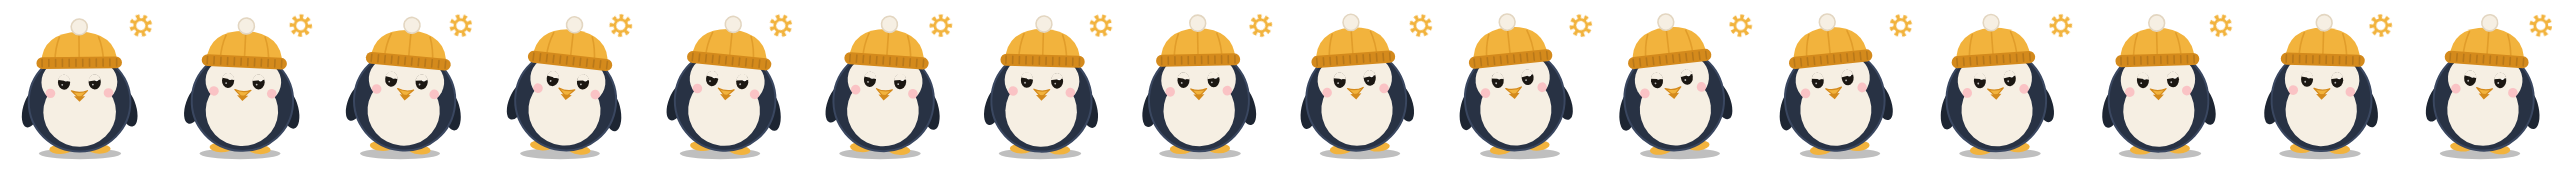
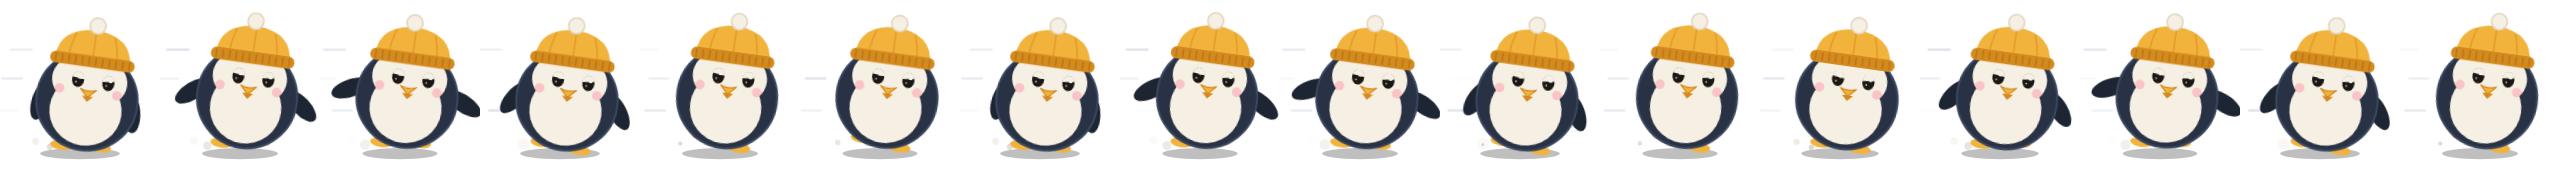
Kelvin acts out scenes: laptop, running, hammer, lightbulb, cloud 9, beach… (#38)
The big Kelvins (Desktop Kelvin and the greeting) now act out a scene
with props for each mood, switching every few seconds:

  working   typing on a laptop (code floats up) · running with speed
            lines and dust · hammering bricks, BANG!
  thinking  thought bubble · a lightbulb flickering on · pacing back
            and forth with question marks
  done      jump for joy · floating on cloud 9 · confetti party
  idle      breathing · lying on a beach towel in the sun, "ahh~" ·
            sunglasses, coffee and music notes

Props are drawn in SVG next to Kelvin and hidden unless their scene is
playing; every loop lasts 1.2 s so the Desktop Kelvin strips repeat
cleanly (re-recorded). The small Kelvins (header, group chats, thinking
line) keep their simple moves. Still mode freezes the props; Hidden
removes everything as before.

Claude-Session: https://claude.ai/code/session_013wJcUq1FY8kmipQYWNFhdJ

diff --git a/frontend2/js/kelvin.js b/frontend2/js/kelvin.js
@@ -73,7 +73,8 @@
       ribs += '<line x1="' + x + '" y1="-117" x2="' + x + '" y2="-108" stroke="' + hat[2] + '" stroke-width="2" stroke-linecap="round"/>';
     }
     return '' +
-      '<ellipse cx="-24" cy="-3" rx="14" ry="6" fill="' + C.amber + '"/><ellipse cx="24" cy="-3" rx="14" ry="6" fill="' + C.amber + '"/>' +
+      '<g data-foot="L"><ellipse cx="-24" cy="-3" rx="14" ry="6" fill="' + C.amber + '"/></g>' +
+      '<g data-foot="R"><ellipse cx="24" cy="-3" rx="14" ry="6" fill="' + C.amber + '"/></g>' +
       '<g data-perk data-px="-54" data-py="-74" data-amt="-30"><ellipse cx="-61" cy="-56" rx="11" ry="25" transform="rotate(22 -61 -56)" fill="' + C.wing + '"/></g>' +
       '<g data-perk data-px="54" data-py="-74" data-amt="30"><ellipse cx="61" cy="-56" rx="11" ry="25" transform="rotate(-22 61 -56)" fill="' + C.wing + '"/></g>' +
       '<ellipse cx="0" cy="-63" rx="63" ry="63" fill="' + C.navy + '" stroke="' + C.navyLine + '" stroke-width="2.5"/>' +
@@ -124,10 +125,102 @@
   }
 
   // ---------------------------------------------------------------------------
+  // Scenes: props for the big Kelvins (greeting, Desktop Kelvin). Each mood has
+  // three; the small Kelvins (header, group chats) keep simple moves instead.
+  // Every animation cycles in 1.2 s (or a divisor) so Desktop Kelvin's strips loop.
+  // ---------------------------------------------------------------------------
+
+  var SCENES = {
+    working:  ['laptop', 'run', 'hammer'],
+    thinking: ['bubble', 'bulb', 'pace'],
+    done:     ['jump', 'cloud', 'party'],
+    idle:     ['breathe', 'relax', 'shades'],
+  };
+  // Scenes that bring their own props hide the mood's usual overlay (gear, thought dots).
+  var OWN_OVERLAY = { laptop: 1, run: 1, hammer: 1, bulb: 1, pace: 1 };
+
+  function prop(name, inner) { return '<g data-prop="' + name + '" class="kv-prop" display="none">' + inner + '</g>'; }
+
+  /** Props behind Kelvin, on the ground. */
+  function propsBack() {
+    return prop('run',
+        '<g stroke="#cfd6e2" stroke-width="3" stroke-linecap="round" opacity=".75">' +
+          '<line class="kv-speed" x1="-70" y1="-128" x2="-96" y2="-128"/>' +
+          '<line class="kv-speed kv-s2" x1="-74" y1="-92" x2="-98" y2="-92"/>' +
+          '<line class="kv-speed kv-s3" x1="-70" y1="-52" x2="-94" y2="-52"/></g>' +
+        '<circle class="kv-dust" cx="-34" cy="-5" r="6" fill="#cfc6b8"/>' +
+        '<circle class="kv-dust kv-s2" cx="-46" cy="-9" r="4" fill="#cfc6b8"/>') +
+      prop('relax',
+        '<rect x="-96" y="-9" width="192" height="13" rx="4" fill="#5b9cf5"/>' +
+        '<rect x="-96" y="-5" width="192" height="4" fill="' + C.cream + '" opacity=".85"/>' +
+        '<g transform="translate(-78 -164)"><g class="kv-sun">' +
+          [0, 45, 90, 135].map(function (a) {
+            return '<rect x="-2" y="-19" width="4" height="38" rx="2" fill="#ffd34d" transform="rotate(' + a + ')"/>';
+          }).join('') + '</g><circle r="10" fill="#ffd34d"/></g>');
+  }
+
+  /** Props in front of Kelvin. */
+  function propsFront() {
+    var confetti = '', cols = [C.amber, '#6aa6f8', '#4fd1a1', C.blush, '#b993f5'];
+    for (var i = 0; i < 10; i++) {
+      confetti += '<rect class="kv-fall" style="animation-delay:-' + (i * 0.12).toFixed(2) + 's" x="' + (-90 + i * 19) +
+        '" y="-190" width="6" height="10" rx="1.5" fill="' + cols[i % cols.length] + '"/>';
+    }
+    var code = function (x, txt, cls) {
+      return '<text class="kv-code ' + cls + '" x="' + x + '" y="-62" font-size="12" font-weight="700" fill="#8fd0ff" text-anchor="middle" font-family="monospace">' + txt + '</text>';
+    };
+    return prop('laptop',
+        code(-24, '&lt;/&gt;', '') + code(4, '{ }', 'kv-c2') + code(28, '01', 'kv-c3') +
+        '<rect x="-48" y="-13" width="96" height="10" rx="3" fill="#9aa3b2"/>' +
+        '<path d="M-41 -13 L-35 -58 L35 -58 L41 -13 Z" fill="#cdd4df" stroke="#8e97a6" stroke-width="2" stroke-linejoin="round"/>' +
+        '<path d="M-35 -58 L35 -58" stroke="#8fd0ff" stroke-width="2.5"/>' +
+        '<ellipse cx="-3" cy="-36" rx="9" ry="6" fill="' + C.amber + '"/><path d="M5 -36 l8 -6 v12 Z" fill="' + C.amber + '"/>' +
+        '<circle cx="-7" cy="-37" r="1.6" fill="' + C.ink + '"/>') +
+      prop('hammer',
+        '<rect x="68" y="-34" width="26" height="13" rx="2" fill="#c0603a"/><rect x="68" y="-20" width="26" height="13" rx="2" fill="#a64f2f"/>' +
+        '<g data-bang><path d="' + star(80, -46, 8) + '" fill="#ffd34d"/><path d="' + star(94, -52, 5) + '" fill="#ffd34d"/>' +
+          '<text x="62" y="-122" font-size="15" font-weight="900" fill="#ffd34d" text-anchor="middle">BANG!</text></g>') +
+      prop('pace',
+        '<text class="kv-q" x="-80" y="-148" font-size="24" font-weight="800" fill="' + C.cream + '">?</text>' +
+        '<text class="kv-q kv-c2" x="74" y="-124" font-size="18" font-weight="800" fill="' + C.cream + '">?</text>') +
+      prop('party', confetti) +
+      prop('shades',
+        '<text class="kv-note" x="-84" y="-118" font-size="20" fill="' + C.cream + '">\u266A</text>' +
+        '<text class="kv-note kv-c2" x="70" y="-140" font-size="18" fill="' + C.cream + '">\u266B</text>') +
+      prop('relax',
+        '<text class="kv-note" x="30" y="-150" font-size="15" font-weight="700" fill="' + C.cream + '">ahh~</text>');
+  }
+
+  /** Props that move with Kelvin: behind the body (cloud) and in front of it. */
+  function propsRigBack() {
+    return prop('cloud',
+      '<g fill="#eef3fb"><circle cx="-34" cy="4" r="14"/><circle cx="-12" cy="-2" r="18"/><circle cx="14" cy="-1" r="17"/>' +
+      '<circle cx="36" cy="5" r="13"/><rect x="-48" y="2" width="96" height="16" rx="8"/></g>' +
+      '<text x="0" y="15" text-anchor="middle" font-size="14" font-weight="900" fill="#5b9cf5">9</text>');
+  }
+  function propsRigFront() {
+    return prop('hammer',
+        '<g data-hammer><rect x="45" y="-95" width="6" height="37" rx="3" fill="#8b5a2b"/>' +
+        '<rect x="36" y="-106" width="24" height="13" rx="3" fill="#9aa3b2" stroke="#6b7280" stroke-width="1.5"/></g>') +
+      prop('bulb',
+        '<circle class="kv-bulb" cx="74" cy="-160" r="21" fill="#ffd34d"/>' +
+        '<circle cx="74" cy="-160" r="11" fill="#fff3b0" stroke="#e0b030" stroke-width="2"/>' +
+        '<rect x="69" y="-150" width="10" height="7" rx="2" fill="#9aa3b2"/>' +
+        '<text class="kv-q" x="-80" y="-140" font-size="22" font-weight="800" fill="' + C.cream + '">?</text>') +
+      prop('shades',
+        '<rect x="-34" y="-98" width="28" height="18" rx="7" fill="#111"/><rect x="6" y="-98" width="28" height="18" rx="7" fill="#111"/>' +
+        '<path d="M-6 -91 h12" stroke="#111" stroke-width="3"/>' +
+        '<path d="M-29 -94 l7 0 M11 -94 l7 0" stroke="#fff" stroke-width="2" stroke-linecap="round" opacity=".7"/>' +
+        '<rect x="60" y="-54" width="17" height="21" rx="3" fill="' + C.cream + '"/>' +
+        '<path d="M77 -48 q8 0 8 6 q0 6 -8 6" stroke="' + C.cream + '" stroke-width="3" fill="none"/>' +
+        '<path class="kv-note" d="M64 -60 q-3 -6 0 -10 M71 -60 q3 -6 0 -10" stroke="#cfd6e2" stroke-width="2" fill="none"/>');
+  }
+
+  // ---------------------------------------------------------------------------
   // Rig + shared animation loop
   // ---------------------------------------------------------------------------
 
-  var KEYS = ['hop', 'stretch', 'tilt', 'open', 'happy', 'slant', 'mOpen', 'perk', 'gx', 'gy', 'eyeScale'];
+  var KEYS = ['hop', 'stretch', 'tilt', 'open', 'happy', 'slant', 'mOpen', 'perk', 'gx', 'gy', 'eyeScale', 'dx', 'dy'];
   var instances = [];
   var uid = 0;
   var pointer = [0, 0, false];
@@ -144,8 +237,9 @@
     var withOv = opts.overlays !== false;
     host.innerHTML =
       '<svg viewBox="' + (opts.viewBox || (withOv ? '-100 -190 200 212' : '-76 -170 152 174')) + '" class="kelvin-svg" role="img" aria-label="' + (opts.label || 'Kelvin, the RAPR AI penguin') + '" overflow="visible">' +
-      (withOv ? '<ellipse data-shadow cx="0" cy="2" rx="52" ry="7" fill="#000" opacity=".25"/>' : '') +
-      '<g data-rig>' + body(id, hatFor(opts.ai)) + '</g>' + (withOv ? overlays() : '') + '</svg>';
+      (withOv ? '<ellipse data-shadow cx="0" cy="2" rx="52" ry="7" fill="#000" opacity=".25"/>' + propsBack() : '') +
+      '<g data-rig>' + (withOv ? propsRigBack() : '') + body(id, hatFor(opts.ai)) + (withOv ? propsRigFront() : '') + '</g>' +
+      (withOv ? propsFront() + overlays() : '') + '</svg>';
     var svg = host.firstChild;
     var q = function (s) { return Array.prototype.slice.call(svg.querySelectorAll(s)); };
     var inst = {
@@ -165,6 +259,8 @@
         return { g: g, px: +g.getAttribute('data-px'), py: +g.getAttribute('data-py'), amt: +g.getAttribute('data-amt') };
       }),
       ovs: q('[data-ov]'),
+      props: q('[data-prop]'), feet: q('[data-foot]'), hammer: svg.querySelector('[data-hammer]'), bang: svg.querySelector('[data-bang]'),
+      big: withOv, scene: null,   // only the big Kelvins act out scenes with props
       track: opts.track !== false,
       sp: {},
     };
@@ -198,8 +294,48 @@
     }
     var mv = inst.variant;
     var poked = now - inst.poke < 700;
-    var T = { hop: 0, stretch: 0, tilt: P.tilt, open: P.open, happy: P.happy, slant: P.slant, mOpen: P.mOpen, perk: P.perk, eyeScale: P.eyeScale, gx: 0, gy: 0 };
-    if (!calm) {
+    var T = { hop: 0, stretch: 0, tilt: P.tilt, open: P.open, happy: P.happy, slant: P.slant, mOpen: P.mOpen, perk: P.perk, eyeScale: P.eyeScale, gx: 0, gy: 0, dx: 0, dy: 0 };
+    var scene = inst.big && SCENES[st] ? SCENES[st][mv % SCENES[st].length] : null;
+    var sceneGaze = null, hammerAt = 10, bangOn = false, feetL = 0, feetR = 0;
+    if (scene === 'laptop') {                 // typing away on a laptop
+      sceneGaze = [0, 0.85]; T.slant = 0.25; T.open = 0.85;
+      if (!calm) { T.perk = 0.25 + Math.sin(t * W * 4) * 0.45; T.hop = -Math.abs(Math.sin(t * W * 2)) * 1; }
+    } else if (scene === 'run') {             // running flat out
+      T.tilt = 8; T.slant = 0.3; T.mOpen = 0.25; sceneGaze = [0.9, 0];
+      if (!calm) {
+        var r = Math.sin(t * W * 2);
+        T.hop = -Math.abs(r) * 7; T.stretch = Math.sin(t * W * 4) * 0.03; T.perk = r * 1.2;
+        feetL = -Math.max(0, r) * 9; feetR = -Math.max(0, -r) * 9;
+      }
+    } else if (scene === 'hammer') {          // building it, one brick at a time
+      T.slant = 0.3; sceneGaze = [0.7, 0.4];
+      if (!calm) {
+        var hp = (t / 0.6) % 1;               // strike, lift slowly, strike again
+        hammerAt = hp < 0.6 ? 120 - (hp / 0.6) * 110 : 10 + Math.pow((hp - 0.6) / 0.4, 2) * 110;
+        bangOn = hp < 0.18;
+        T.hop = hp < 0.1 ? -3 : 0;
+      }
+    } else if (scene === 'bulb') {            // lightbulb moment
+      T.tilt = -6; sceneGaze = [0.8, -0.9]; T.perk = 0.4;
+      if (!calm) T.tilt = -6 + Math.sin(t * W) * 2;
+    } else if (scene === 'pace') {            // pacing back and forth
+      sceneGaze = [0, -0.4];
+      if (!calm) { T.dx = Math.sin(t * W) * 22; T.tilt = Math.cos(t * W) * 5; T.hop = -Math.abs(Math.sin(t * W * 2)) * 2; }
+    } else if (scene === 'cloud') {           // on cloud 9
+      T.dy = -18; T.happy = 1; T.perk = 0.9; T.mOpen = 0.5;
+      if (!calm) { T.dy = -18 + Math.sin(t * W) * 4; T.tilt = Math.sin(t * W) * 3; }
+    } else if (scene === 'party') {           // confetti party
+      T.happy = 1; T.mOpen = 0.7;
+      if (!calm) { T.tilt = Math.sin(t * W * 2) * 9; T.perk = 0.6 + Math.sin(t * W * 2) * 0.6; T.hop = -Math.abs(Math.sin(t * W)) * 5; }
+    } else if (scene === 'relax') {           // lying on a beach towel in the sun
+      T.tilt = -90; T.dx = 85; T.dy = -66; T.open = 0.35; T.happy = 0.7; sceneGaze = [0.3, -0.2];
+      if (!calm) T.stretch = Math.sin(t * W) * 0.03;
+    } else if (scene === 'shades') {          // sunglasses, coffee and a tune
+      T.happy = 0.5; T.perk = 0.3;
+      if (!calm) { T.tilt = Math.sin(t * W) * 5; T.hop = -Math.abs(Math.sin(t * W * 2)) * 2; }
+    }
+    var acting = scene && scene !== 'bubble' && scene !== 'jump' && scene !== 'breathe';
+    if (!calm && !acting) {
       T.stretch = st === 'sleeping' ? Math.sin(t * 1.6) * 0.035 : Math.sin(t * 2.4) * 0.02;
       if (st === 'working') {
         if (mv === 1) {                      // waddle side to side
@@ -239,7 +375,7 @@
       T.happy = 1; T.mOpen = 0.6; T.perk = 1;
       T.hop = calm ? 0 : -Math.sin((now - inst.poke) / 700 * Math.PI) * 18;
     }
-    var g = P.gaze;
+    var g = sceneGaze || P.gaze;
     if (!g && inst.track && pointer[2]) {
       var b = inst.svg.getBoundingClientRect();
       var dx = (pointer[0] - (b.left + b.width / 2)) / (window.innerWidth * 0.5);
@@ -263,9 +399,19 @@
     });
     var v = function (k) { return sp[k].x; };
 
-    inst.rig.setAttribute('transform', 'translate(0 ' + v('hop').toFixed(2) + ') rotate(' + v('tilt').toFixed(2) + ') scale(' +
+    inst.rig.setAttribute('transform', 'translate(' + v('dx').toFixed(2) + ' ' + (v('hop') + v('dy')).toFixed(2) + ') rotate(' + v('tilt').toFixed(2) + ') scale(' +
       (1 - v('stretch') * 0.6).toFixed(3) + ' ' + (1 + v('stretch')).toFixed(3) + ')');
-    if (inst.shadow) inst.shadow.setAttribute('rx', (52 * (1 + v('hop') / 60)).toFixed(1));
+    if (inst.shadow) inst.shadow.setAttribute('rx', (scene === 'relax' ? 92 : Math.max(12, 52 * (1 + (v('hop') + v('dy')) / 60))).toFixed(1));
+    if (scene !== inst.scene) {
+      inst.scene = scene;
+      inst.props.forEach(function (el) { el.setAttribute('display', el.getAttribute('data-prop') === scene ? 'inline' : 'none'); });
+    }
+    if (inst.feet.length) {
+      inst.feet[0].setAttribute('transform', 'translate(0 ' + feetL.toFixed(2) + ')');
+      inst.feet[1].setAttribute('transform', 'translate(0 ' + feetR.toFixed(2) + ')');
+    }
+    if (inst.hammer) inst.hammer.setAttribute('transform', 'rotate(' + hammerAt.toFixed(1) + ' 48 -60)');
+    if (inst.bang) inst.bang.setAttribute('opacity', bangOn ? '1' : '0');
     var open = Math.max(0, Math.min(1.15, v('open')));
     var happy = Math.max(0, Math.min(1, v('happy')));
     inst.eyes.forEach(function (e) {
@@ -277,7 +423,7 @@
     });
     if (inst.beak) inst.beak.setAttribute('transform', 'translate(0 ' + (Math.max(0, v('mOpen')) * 7).toFixed(2) + ')');
     inst.perks.forEach(function (p) { p.g.setAttribute('transform', 'rotate(' + (v('perk') * p.amt).toFixed(2) + ' ' + p.px + ' ' + p.py + ')'); });
-    inst.ovs.forEach(function (o) { o.setAttribute('opacity', o.getAttribute('data-ov') === st ? '1' : '0'); });
+    inst.ovs.forEach(function (o) { o.setAttribute('opacity', o.getAttribute('data-ov') === st && !OWN_OVERLAY[scene] ? '1' : '0'); });
   }
 
   function frame(now) {

diff --git a/frontend2/css/kelvin.css b/frontend2/css/kelvin.css
@@ -118,3 +118,28 @@
 .gk-quip { font-size: 12px; color: var(--muted); font-style: italic; padding: 4px 10px; border-radius: 12px;
   border: 1px dashed var(--border); max-width: 100%; }
 .gk-quip[hidden] { display: none; }
+
+/* Scenes (big Kelvins): every loop lasts 1.2 s or a divisor, so Desktop Kelvin's strips repeat cleanly */
+.kv-code, .kv-speed, .kv-dust, .kv-bulb, .kv-q, .kv-fall, .kv-note, .kv-sun { transform-box: fill-box; transform-origin: center; }
+.kv-c2 { animation-delay: -.4s !important; }
+.kv-c3 { animation-delay: -.8s !important; }
+.kv-s2 { animation-delay: -.2s !important; }
+.kv-s3 { animation-delay: -.4s !important; }
+.kv-code { animation: kv-code 1.2s linear infinite; }
+@keyframes kv-code { 0% { transform: translateY(6px); opacity: 0; } 20% { opacity: 1; } 100% { transform: translateY(-28px); opacity: 0; } }
+.kv-speed { animation: kv-speed .6s linear infinite; }
+@keyframes kv-speed { 0% { transform: translateX(14px); opacity: 0; } 30% { opacity: 1; } 100% { transform: translateX(-12px); opacity: 0; } }
+.kv-dust { animation: kv-dust .6s ease-out infinite; }
+@keyframes kv-dust { 0% { transform: translate(0, 0) scale(.4); opacity: .8; } 100% { transform: translate(-14px, -6px) scale(1.4); opacity: 0; } }
+.kv-bulb { animation: kv-bulb 1.2s ease-in-out infinite; }
+@keyframes kv-bulb { 0%, 35% { opacity: 0; } 50%, 100% { opacity: .55; } }
+.kv-q { animation: kv-q 1.2s ease-in-out infinite; }
+@keyframes kv-q { 0%, 100% { transform: translateY(0) rotate(-10deg); } 50% { transform: translateY(-6px) rotate(10deg); } }
+.kv-fall { animation: kv-fall 1.2s linear infinite; }
+@keyframes kv-fall { 0% { transform: translateY(-10px) rotate(0deg); } 100% { transform: translateY(205px) rotate(360deg); } }
+.kv-note { animation: kv-note 1.2s ease-out infinite; }
+@keyframes kv-note { 0% { transform: translate(0, 8px); opacity: 0; } 25% { opacity: 1; } 100% { transform: translate(8px, -22px); opacity: 0; } }
+.kv-sun { animation: kv-sun 1.2s linear infinite; }
+@keyframes kv-sun { to { transform: rotate(45deg); } }
+:root[data-kelvin="still"] .kv-prop, :root[data-kelvin="still"] .kv-prop * { animation: none !important; }
+@media (prefers-reduced-motion: reduce) { .kv-prop, .kv-prop * { animation: none !important; } }

diff --git a/frontend2/index.html b/frontend2/index.html
@@ -18,7 +18,7 @@
 <link rel="stylesheet" href="/css/premium.css?v=3">
 <link rel="stylesheet" href="/css/overhaul.css?v=2">
 <link rel="stylesheet" href="/css/impeccable.css?v=3">
-<link rel="stylesheet" href="/css/kelvin.css?v=5">
+<link rel="stylesheet" href="/css/kelvin.css?v=6">
 <link rel="stylesheet" href="/css/groupchat.css?v=3">
 <link rel="stylesheet" href="/css/header.css?v=1">
 </head>
@@ -1667,7 +1667,7 @@ Example:
   </div>
 </div>
 
-<script src="/js/kelvin.js?v=6"></script>
+<script src="/js/kelvin.js?v=7"></script>
 <script src="/js/complete.js?v=14"></script>
 <script src="/js/ai_list.js?v=1"></script>
 <script src="/js/packages.js?v=4"></script>
